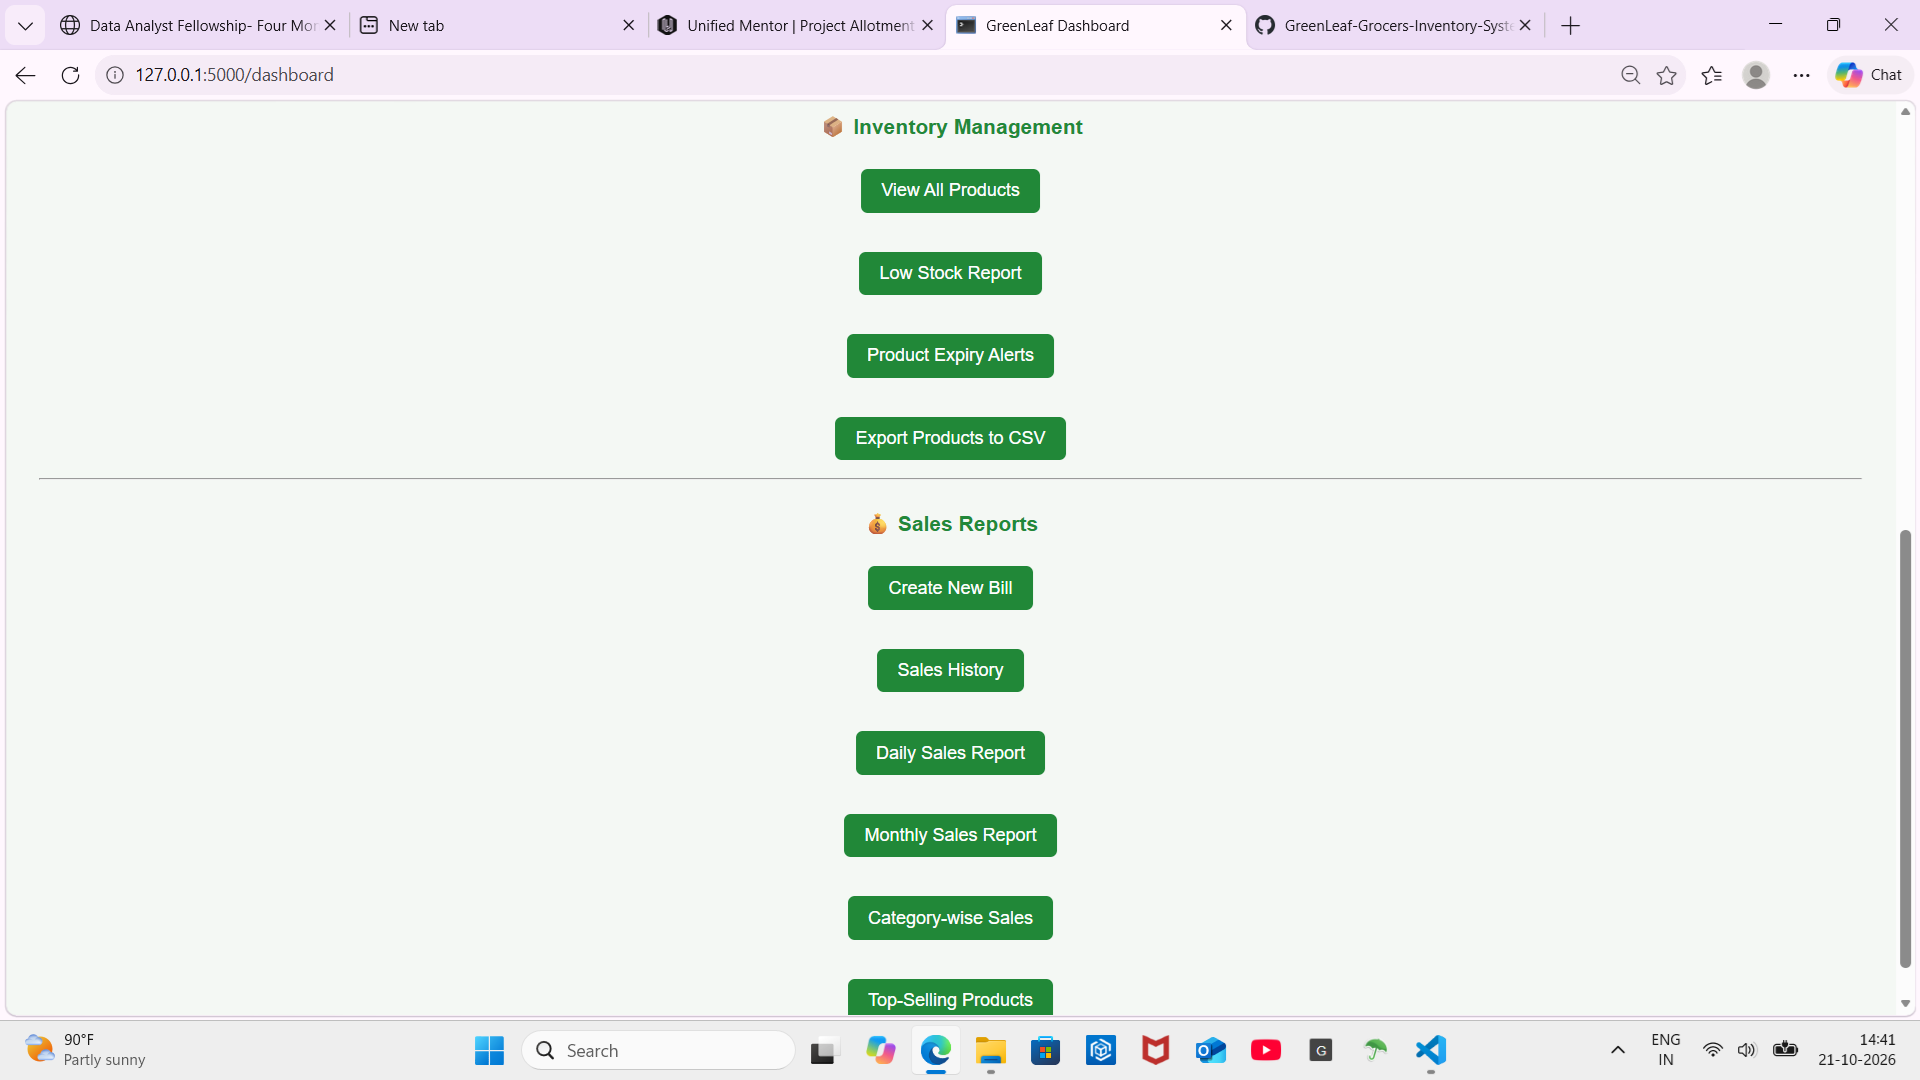
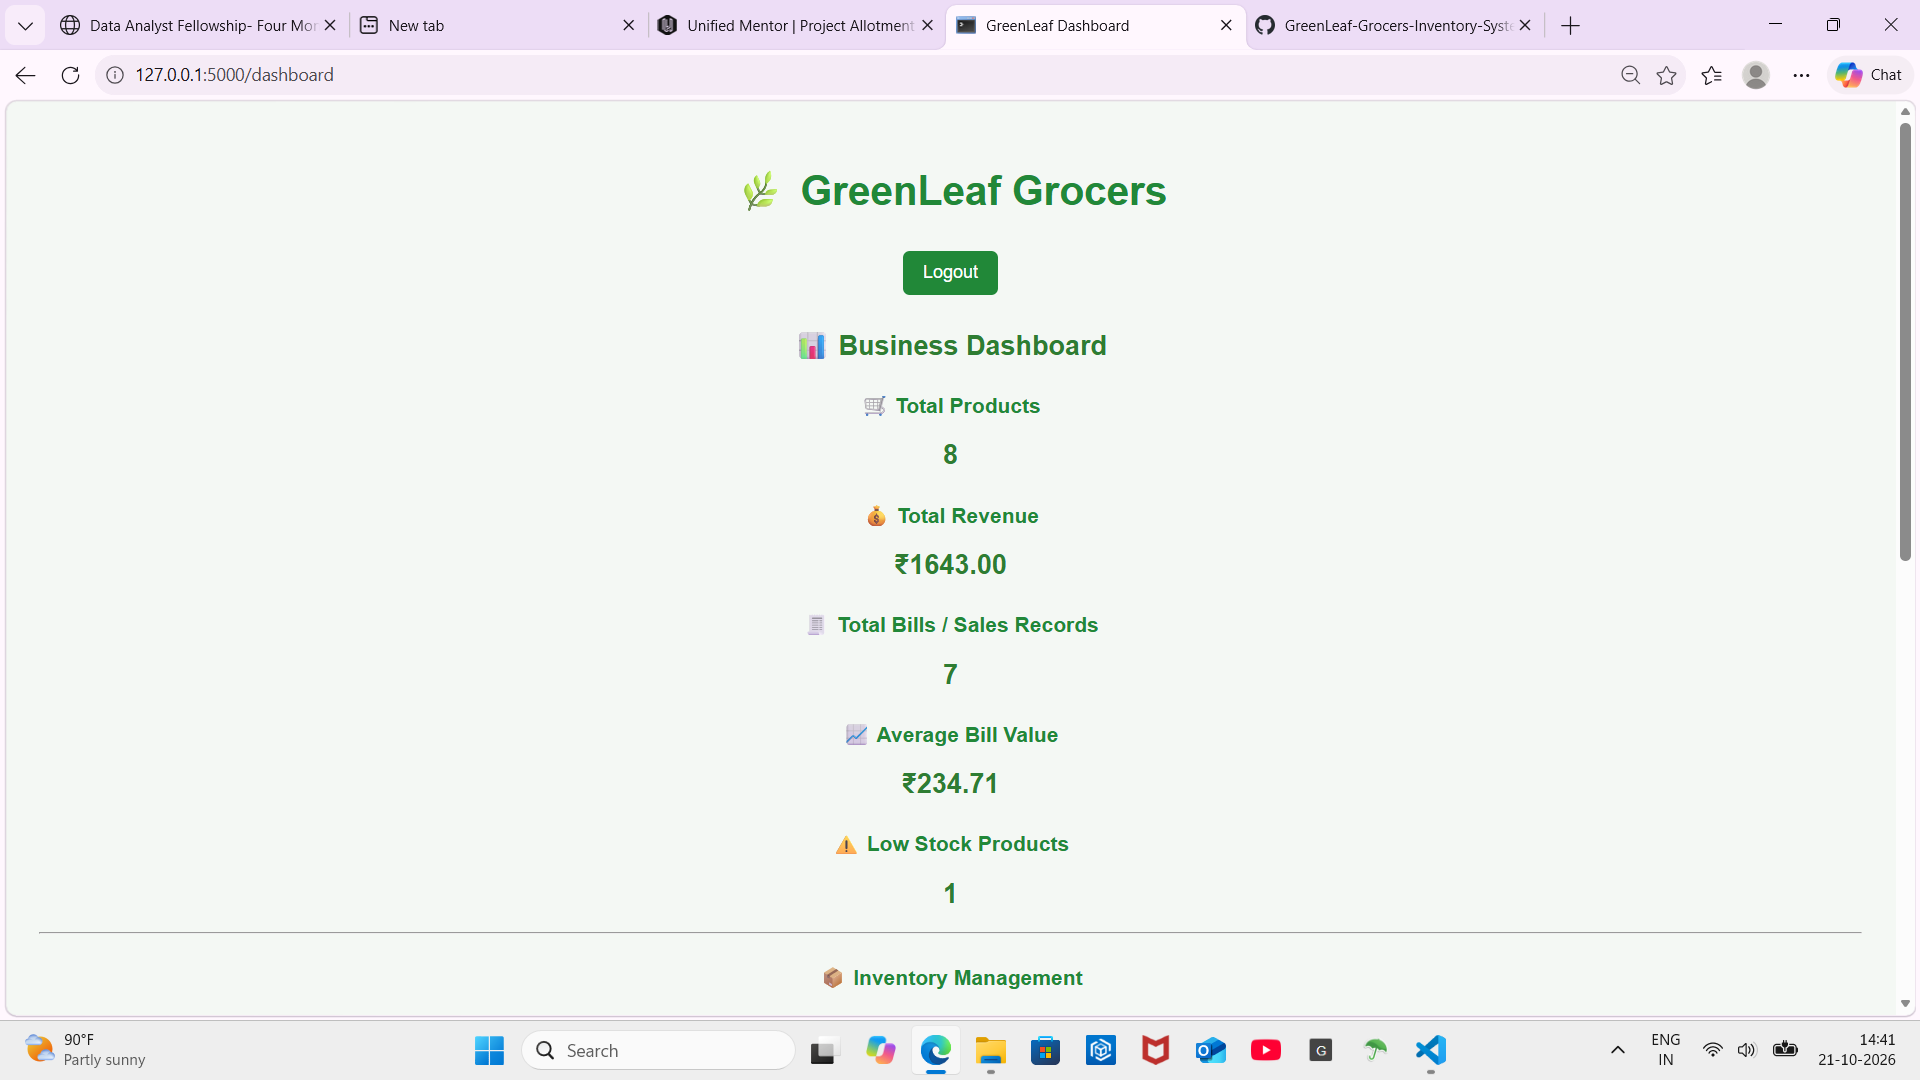
Update dashboard screenshots

diff --git a/README.md b/README.md
@@ -81,7 +81,7 @@ GitHub: [kamuniudayasree-prog](https://github.com/kamuniudayasree-prog)
 ## 📸 Application Screenshots
 
 ### Dashboard
-![Dashboard](screenshots/dashboard.png)
+![Dashboard](screenshots/dashboard(1).png)
 
 ### Dashboard - Part 2
-![Dashboard Part 2](screenshots/dashboard_part2.png)
+![Dashboard Part 2](screenshots/dashboard(2).png)
